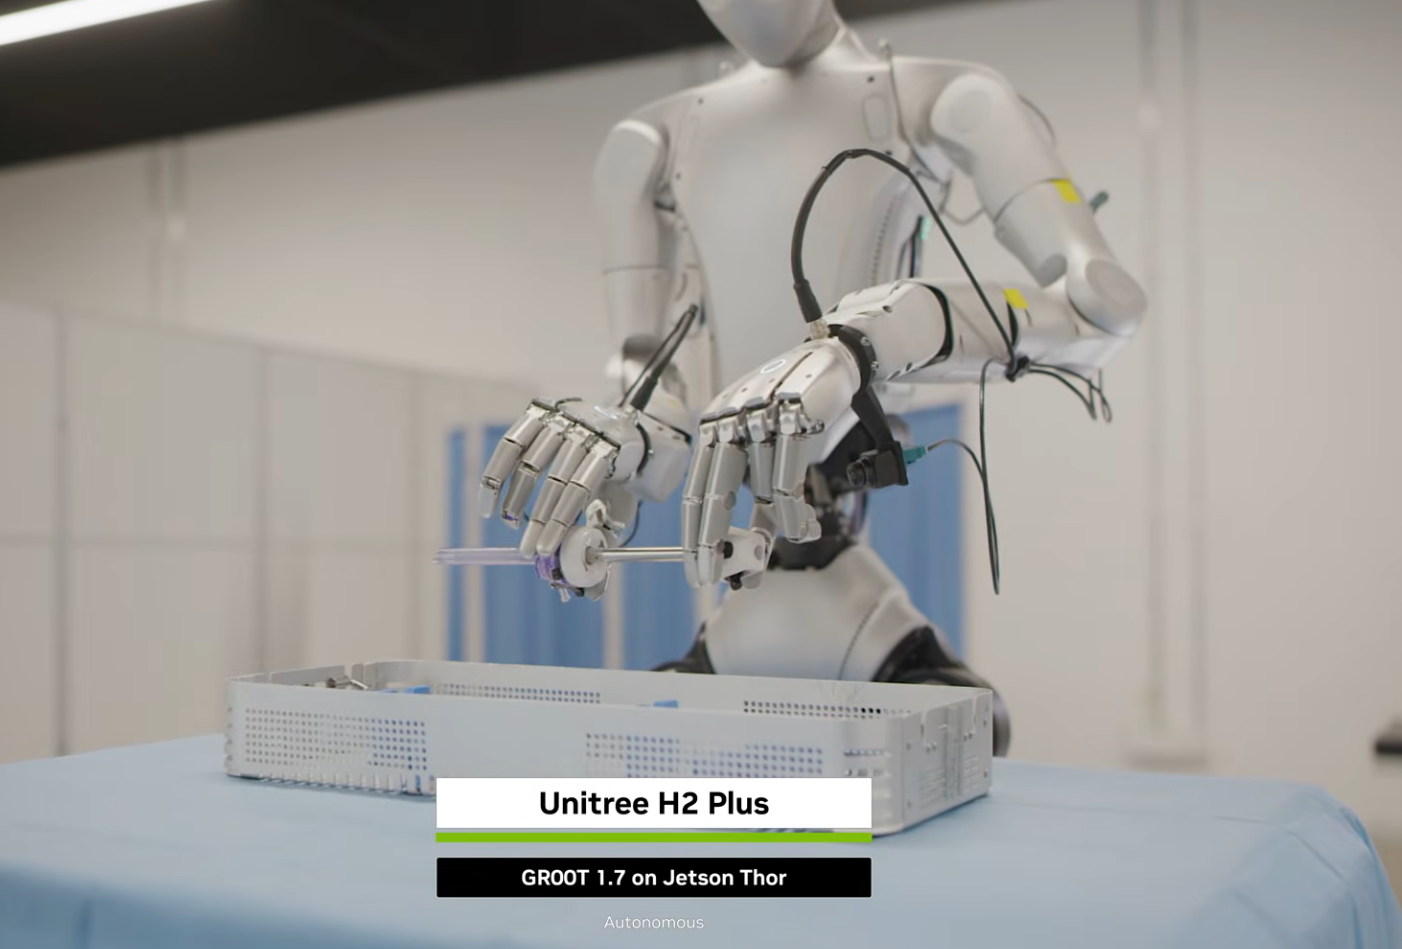
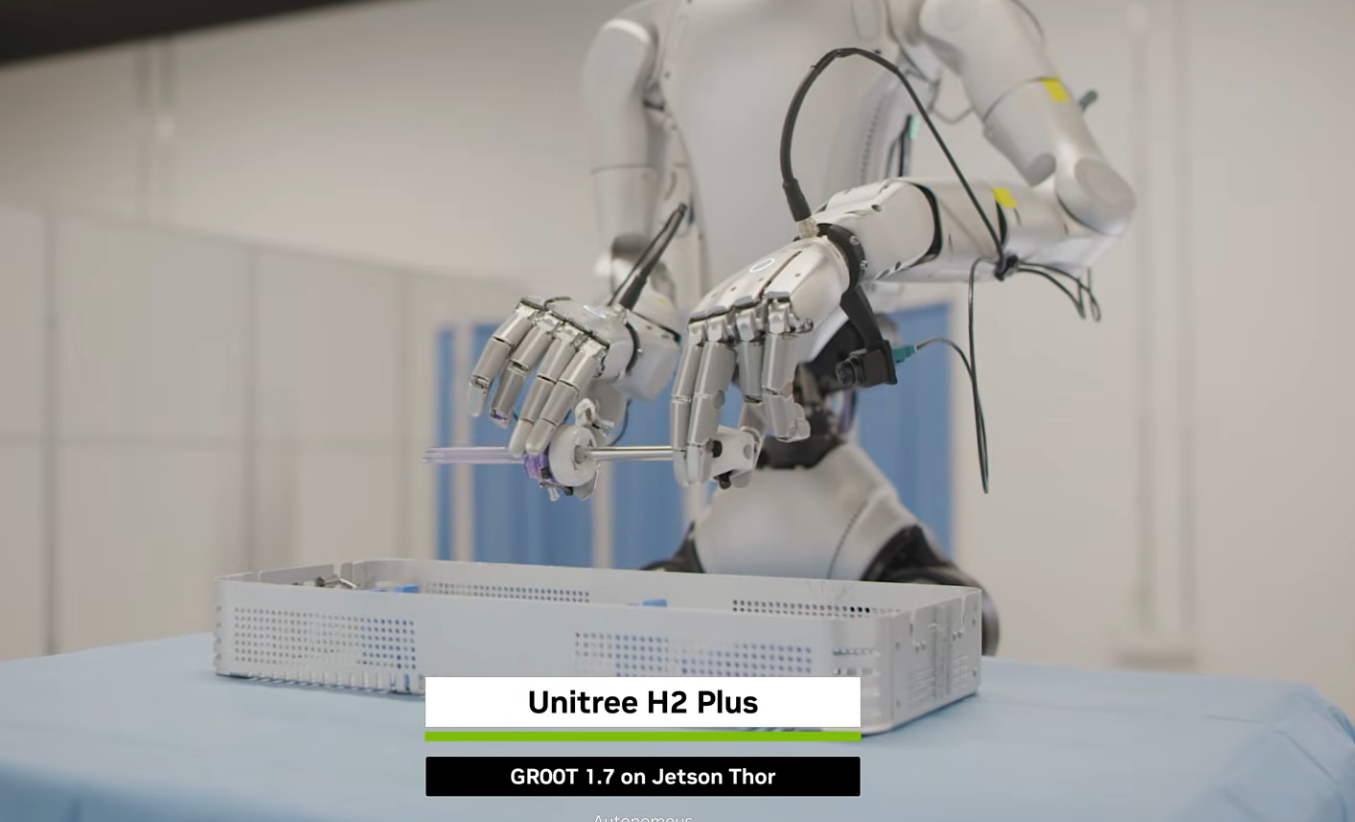
update

Changed region(s): [[0.0, 0.0, 1.0, 1.0], [0.9299, 0.8516, 1.0, 1.0], [0.9609, 0.7603, 1.0, 0.8212]]

diff --git a/index.html b/index.html
@@ -390,22 +390,22 @@
                 </div>
                 <div class="article-style">
                   <!-- <strong>Preprint 2026</strong> <br> -->
-                  <strong>Core Contributor</strong>,
+                  <strong>Core Contributor</strong>
                 </div>
                 </a>
                 <div class="stream-meta article-metadata"> 
                 </div>
-                <!-- <div class="btn-links">
-                  <a class="btn btn-outline-primary btn-page-header btn-sm" href="javascript:void(0)" target="_blank" rel="noopener">
-                    Project Page
+                <div class="btn-links">
+                  <a class="btn btn-outline-primary btn-page-header btn-sm" href="https://youtu.be/yvDDpQZliY8?t=115" target="_blank" rel="noopener">
+                    Video
                   </a>
-                  <a class="btn btn-outline-primary btn-page-header btn-sm" href="javascript:void(0)" target="_blank" rel="noopener">
-                    arXiv
+                  <a class="btn btn-outline-primary btn-page-header btn-sm" href="https://nvidianews.nvidia.com/news/nvidia-open-humanoid-robot-reference-design" target="_blank" rel="noopener">
+                    Press
                   </a>
-                  <a class="btn btn-outline-primary btn-page-header btn-sm" href="javascript:void(0)" rel="noopener">
+                  <!-- <a class="btn btn-outline-primary btn-page-header btn-sm" href="javascript:void(0)" rel="noopener">
                     Code
-                  </a>
-                </div> -->
+                  </a> -->
+                </div>
               </div>
               <div class="ml-3">
                 <img src="/publication/2026_nvidia_gr00t/gr00t.png" alt="" loading="lazy">